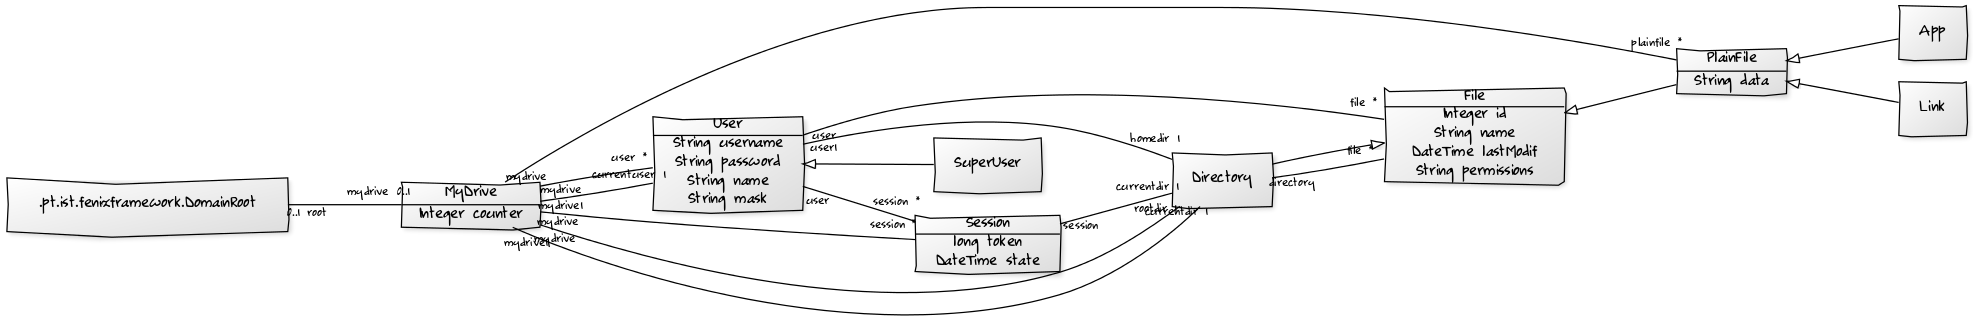
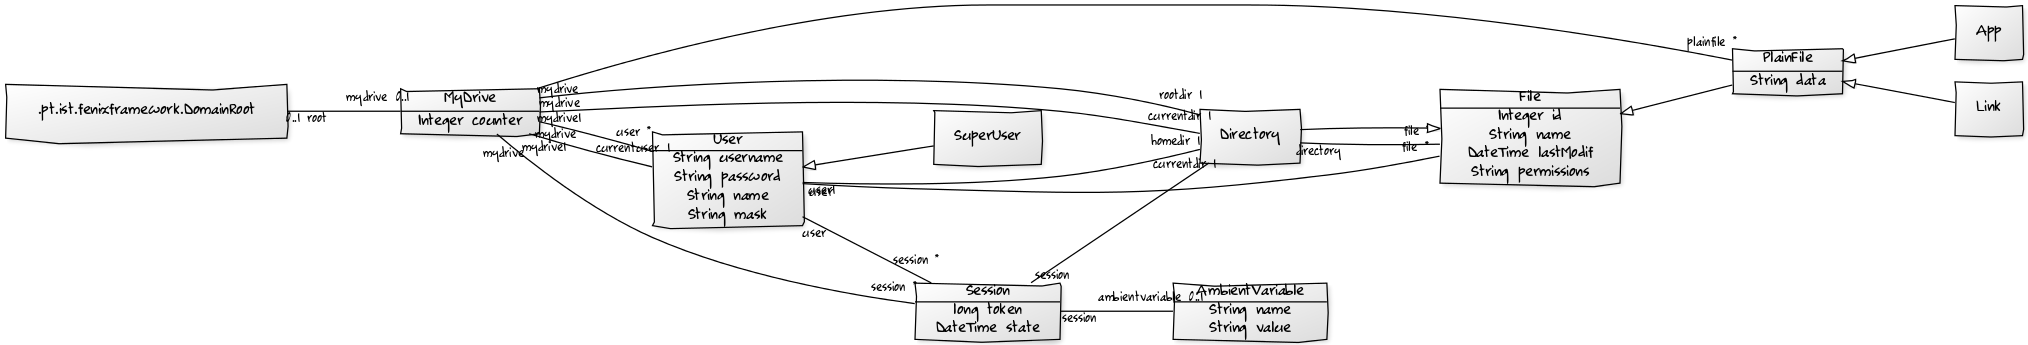
dml added ambient variables

diff --git a/src/main/java/pt/tecnico/MyDrive/domain/AmbientVariable.java b/src/main/java/pt/tecnico/MyDrive/domain/AmbientVariable.java
@@ -1,0 +1,9 @@
+package pt.tecnico.MyDrive.domain;
+
+public class AmbientVariable extends AmbientVariable_Base {
+    
+    public AmbientVariable() {
+        super();
+    }
+    
+}
